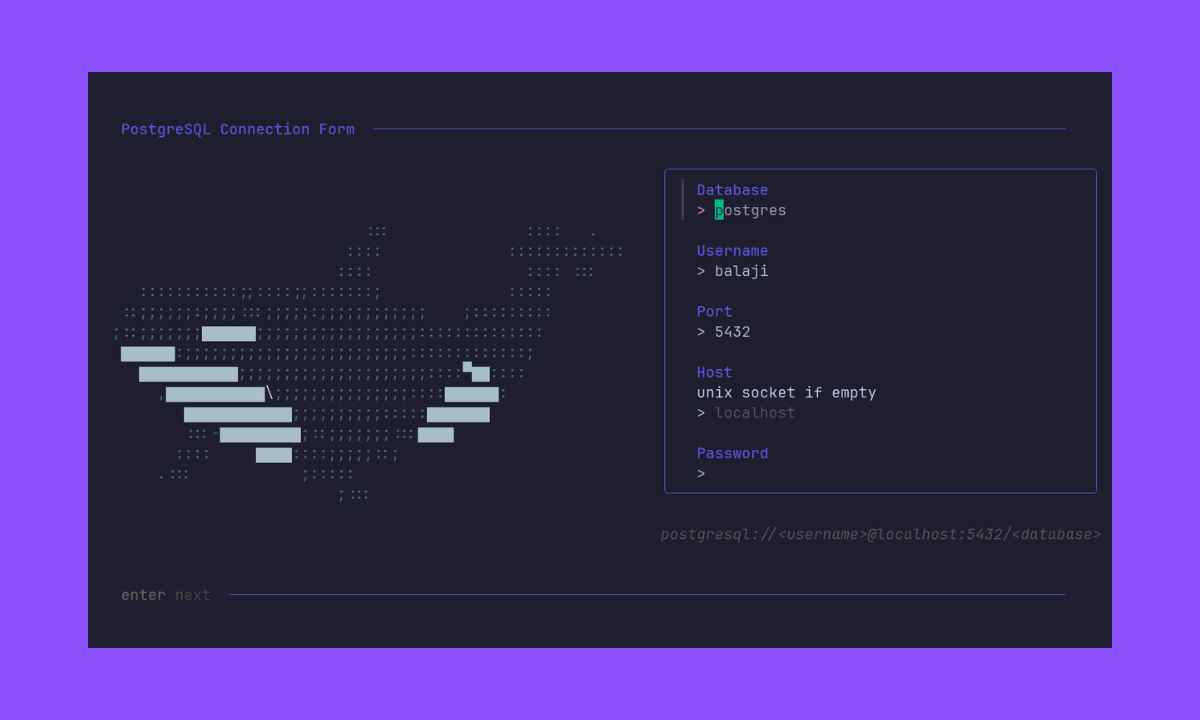
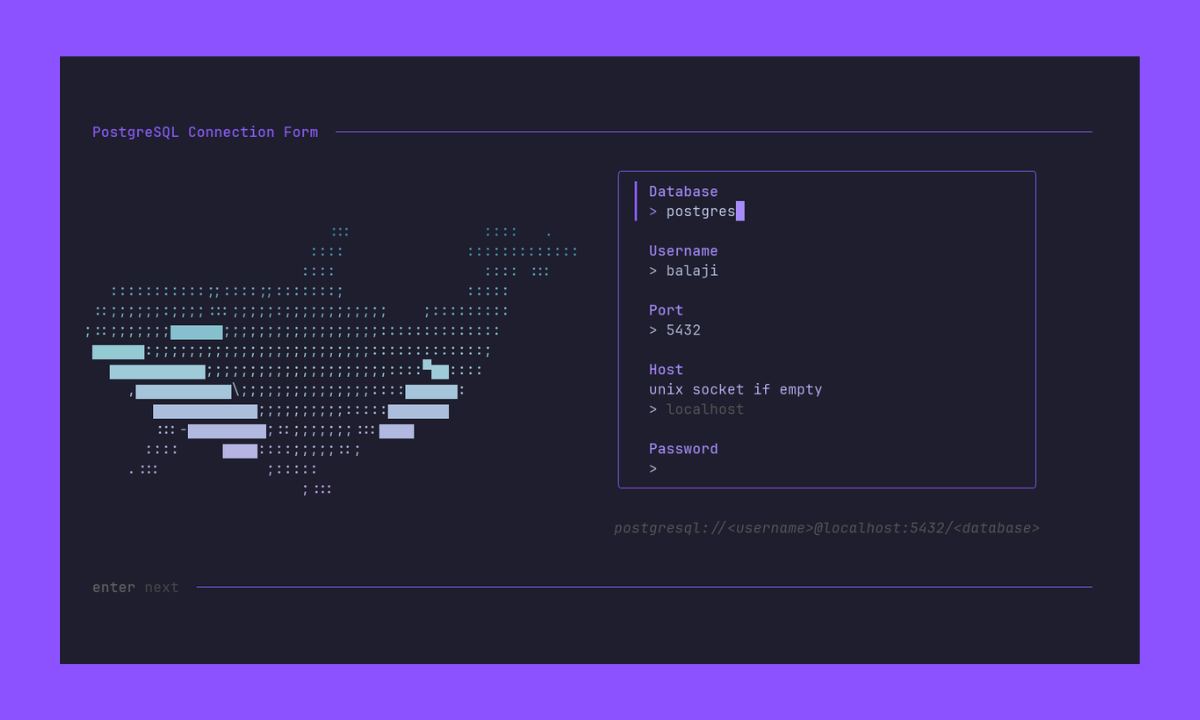
update docs

diff --git a/docs/src/pages/index.js b/docs/src/pages/index.js
@@ -10,7 +10,7 @@ export default function Home() {
 
           {/* Screenshot — large, full width */}
           <div className={styles.heroRight}>
-            <img src="img/app-screenshot.png" alt="pgxcli in action" className={styles.screenshot}/>
+            <img src="img/home.png" alt="pgxcli in action" className={styles.screenshot}/>
           </div>
 
           {/* Text below screenshot — brand text on left, content centered */}

diff --git a/docs/docs/guides/features.md b/docs/docs/guides/features.md
@@ -36,3 +36,12 @@ For complex queries, you can launch your favorite text editor directly from the 
 Press `Ctrl+E` to open the current query in the editor defined by your `$EDITOR` environment variable (e.g., `vim`, `nano`, `code`). When you save and exit the editor, the query is automatically brought back to the prompt, ready for execution.
 
 ---
+
+## Interactive UI Elements
+
+pgxcli provides a modern and responsive user interface, including:
+- **Loading Spinner:** A visual spinner indicator that displays during query execution, letting you know your query is running.
+- **Orca Banner:** A colorful ASCII orca banner with gradient styling on startup.
+- **Issue Reporting:** A clickable link in the status bar to easily report issues on GitHub.
+
+---